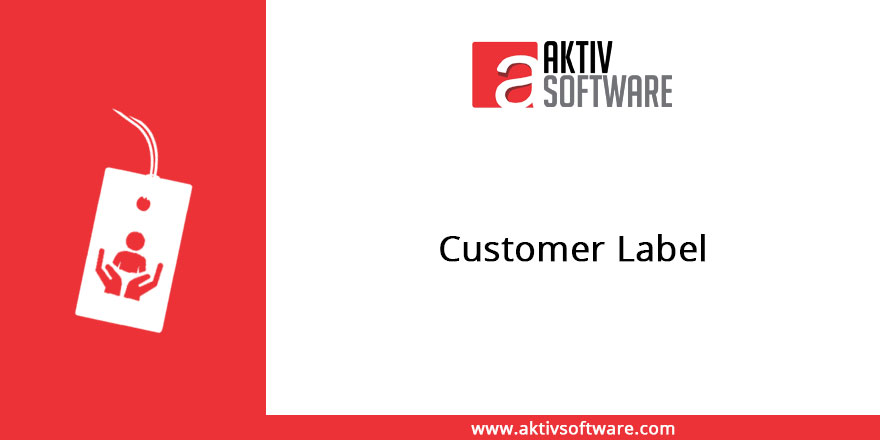
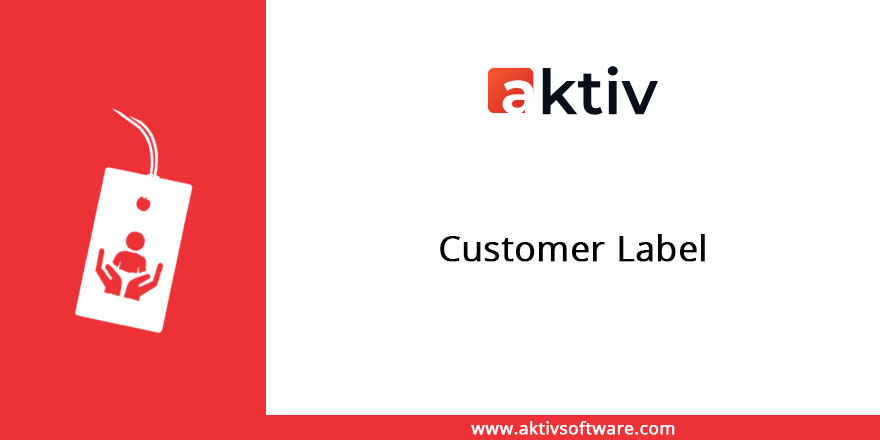
[ADD] change image in 9.0

Changed region(s): [[0.5216, 0.0886, 0.767, 0.2659]]

diff --git a/customer_labels/static/description/index.html b/customer_labels/static/description/index.html
@@ -66,7 +66,7 @@
     <div class="oe_row oe_spaced">
         <h2 class="oe_slogan">
             <a href="http://aktivsoftware.com/" target="new">
-                <img src="http://aktivsoftware.com/wp-content/uploads/2018/01/logo-1.png"/>
+                <img src="aktiv-logo.png"/>
             </a>
             <br/>
             <a href="mailto:sales@aktivsoftware.com" style="color: #000000 !important;">
